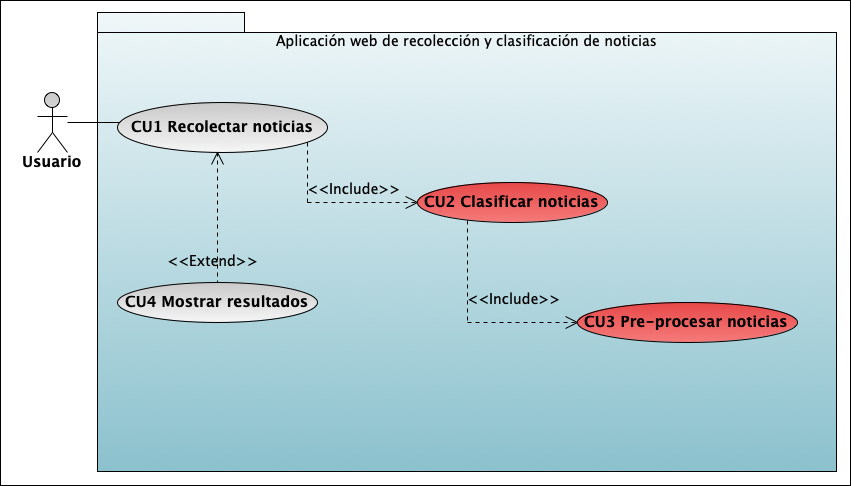
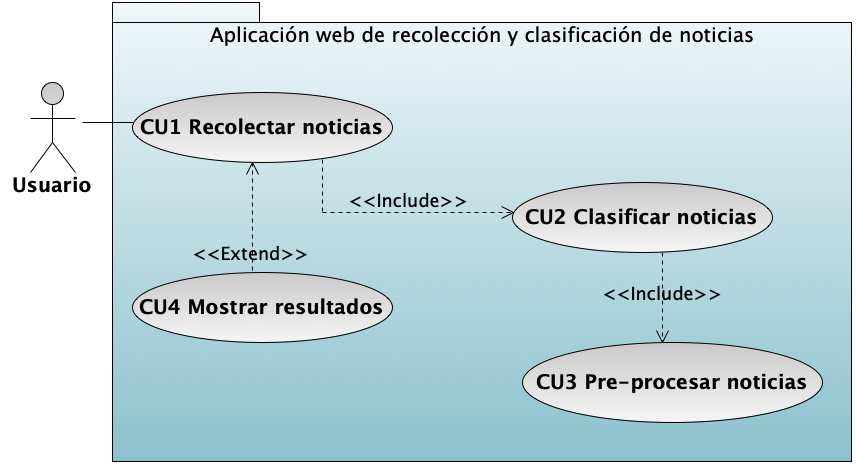
Se ha actualizado el diagrama de casos de uso

Changed region(s): [[0.0, 0.0, 1.0, 1.0], [0.5499, 0.6009, 0.6722, 0.6309], [0.0, 0.0, 0.0306, 0.03]]

diff --git a/Analisis/DocumentoAnalisis/Capitulos/Capitulo4-AnalisisYdisenio/DiagramaCU.tex b/Analisis/DocumentoAnalisis/Capitulos/Capitulo4-AnalisisYdisenio/DiagramaCU.tex
@@ -1,7 +1,7 @@
 
 
 
-La Figura \textbf{\ref{fig:DCU}} muestra el diagrama de casos de uso de la aplicación. Los casos de uso marcados en color gris son descritos en el documento, mientras que los mostrados en color rojo serán desarrollados en trabajo terminal II.
+La Figura \textbf{\ref{fig:DCU}} muestra el diagrama de casos de uso de la aplicación.
 
 \begin{figure}[h]
   \centering
